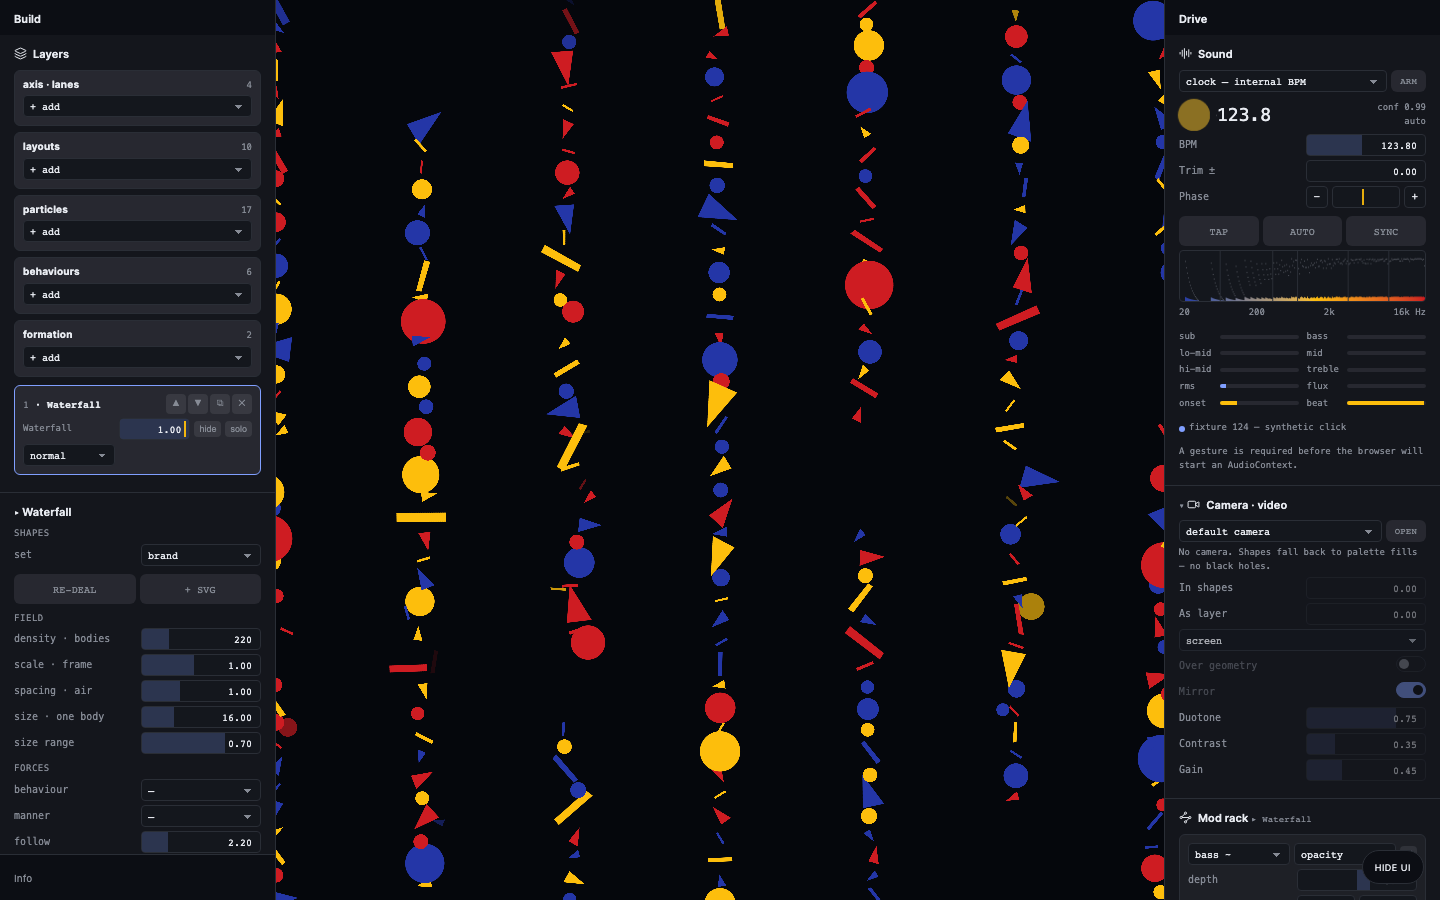
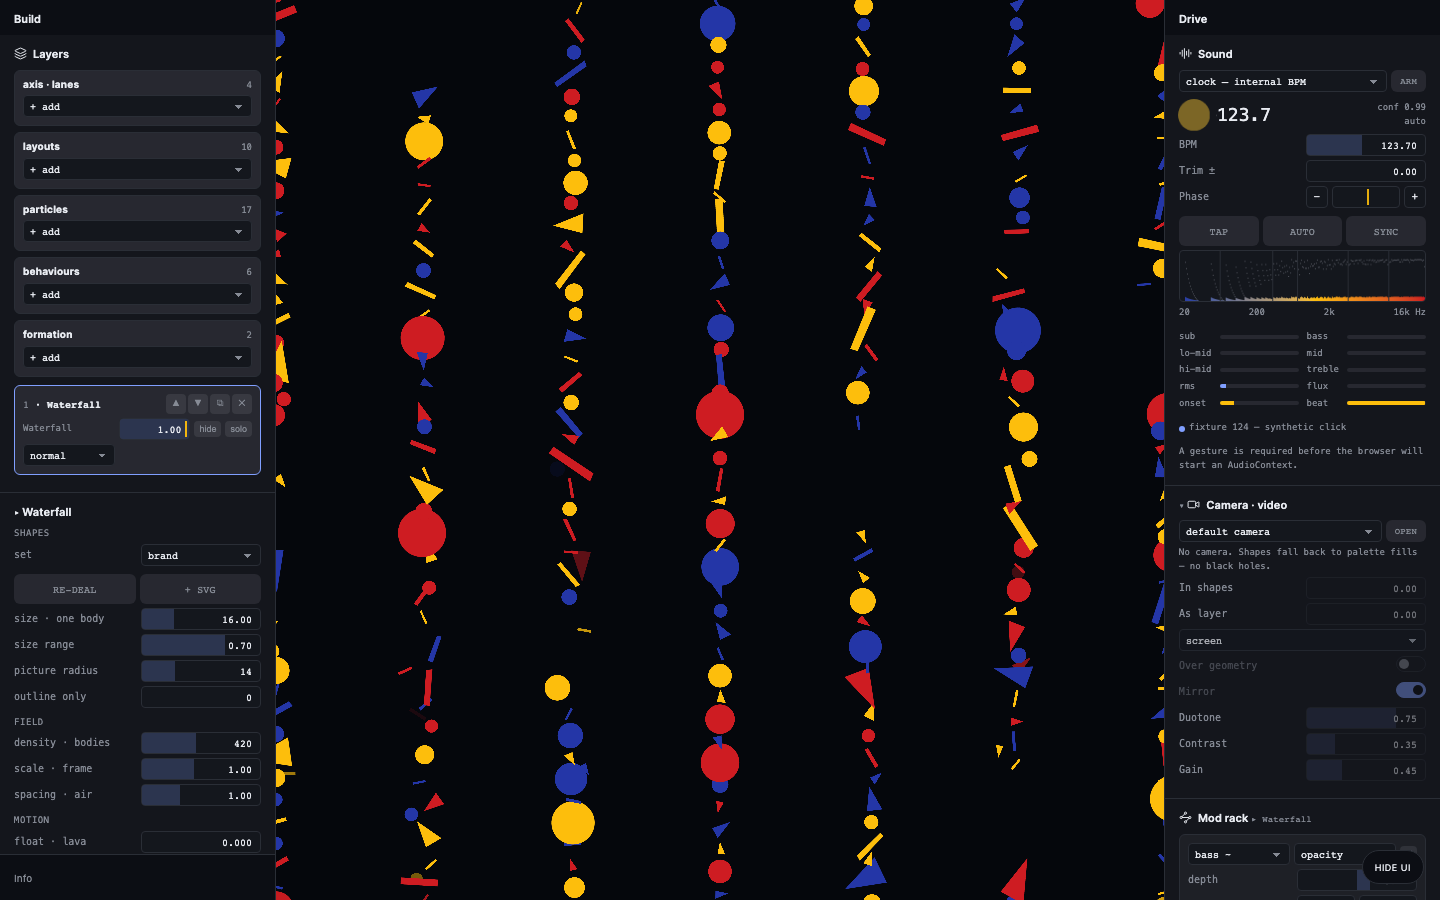
Стендбай Роба стал стартовым экраном, силы заговорили по-человечески

diff --git a/index.html b/index.html
@@ -4003,6 +4003,17 @@ const BLENDS=[['source-over','normal'],['multiply','multiply'],['screen','screen
    dial a triangle and a circle separately: «просто добавляется в каждую карточку базовый
    пресет нашего бренда, 3 добавленных svg, вот и всё». A set is one decision; the
    randomiser re-deals which body wears which of them. */
+/* what each force is FOR, in the words of the thing you are trying to make happen.
+   Order is the order you reach for them: drift first (the standby), then how they treat
+   each other, then how they organise, then the two that only some scenes want. */
+const MOTION_ROWS=[
+  {key:'phys.swirl',   label:'float · lava'},
+  {key:'phys.collide', label:'avoid each other'},
+  {key:'phys.attract', label:'gather to centre'},
+  {key:'phys.follow',  label:'hold formation'},
+  {key:'phys.flock',   label:'move together'},
+  {key:'phys.gravity', label:'fall'}
+];
 const SHAPE_SETS={
   brand:   { tri:1, wedge:1, circle:1, asset:1 },
   circles: { tri:0, wedge:0, circle:1, asset:0 },
@@ -4059,31 +4070,32 @@ function renderFocus(){
     seg.append(rr,ad); host.appendChild(seg); }
 
   const all=paramsOf(L), byKey=k=>all.find(x=>x.key===k);
+  rows(['size','varSize','radius','stroke'].map(byKey).filter(Boolean));
+
   cap('field');
   rows([{key:'count',label:'density · bodies',min:20,max:900,step:1,
          get:()=>L.count,set:v=>{ L.count=Math.round(v); rebuildLayer(L); }}]
-       .concat(['scale','spacing','size','varSize'].map(byKey).filter(Boolean)));
+       .concat(['scale','spacing'].map(byKey).filter(Boolean)));
 
-  cap('forces');
-  /* a whole force set in one gesture, for THIS layer — quantised like every other
-     performance action, so it lands on the bar rather than mid-phrase */
-  for(const [lbl,table,fn] of [['behaviour',BEHAVIOURS,applyBehaviour],
-                               ['manner',mannerTable(),applyManner]]){
-    const row=document.createElement('div'); row.className='row';
-    const lb=document.createElement('label'); lb.textContent=lbl; row.appendChild(lb);
-    const sel=mkSel([['','—']].concat(Object.keys(table).map(k=>[k,k])),'',v=>{
-      if(v) fire(()=>{ fn(v); renderFocus(); }, v); });
-    sel.setAttribute('aria-label',lbl+' preset'); row.appendChild(sel); host.appendChild(row);
-  }
-  rows(PHYS_PARAMS.map(d=>byKey(d.key)).filter(Boolean));
+  /* ── MOTION, named for what it does ─────────────────────────────────────────
+     This was FORCES: two dropdowns that overwrote the eight sliders under them, and the
+     eight sliders themselves named after the engine — follow · damping · collide · body
+     radius · swirl · attract · gravity · flock. Rob, 2026-07-19: «два drop down меню,
+     которые вообще не работают, это противоречит всей карточке. Нам надо больше настроек
+     конкретных, чтобы они авоидили друг друга, либо как-то выстраивались красиво, либо
+     больше плавали — типа лава-лампы».
+     The dropdowns are gone: a preset that silently rewrites every slider next to it is a
+     contradiction, not a shortcut. What is left is six controls named after the behaviour
+     you are asking for, not the term the integrator holds it under. Damping, body radius
+     and 3D interaction stay in the model (scenes carry them, the rack can drive them) —
+     they are calibration, not performance, and they were four more rows of noise. */
+  cap('motion');
+  rows(MOTION_ROWS.map(m=>{ const p=byKey(m.key); return p&&{...p,label:m.label}; }).filter(Boolean));
 
-  if(P.params.length){ cap('drawing');
+  if(P.params.length){ cap('pattern');
     rows(P.params.filter(d=>!P.keys||P.keys.includes(d.key))
       .map(x=>({...x, descKey:L.prog+'.'+x.key,
         get:()=>L.params[x.key], set:v=>L.params[x.key]=v}))); }
-  /* the rest of the look — the texture-baked half — stays reachable but out of the way */
-  cap('material');
-  rows(['radius','stroke','tint','face','varTilt'].map(byKey).filter(Boolean));
 
   const exId=PROG_EXTRAS[L.prog];
   if(exId){ const ex=document.getElementById(exId); if(ex) host.appendChild(ex); }
@@ -4481,13 +4493,34 @@ function frame(){
    ══════════════════════════════════════════════════════════════════════════ */
 readColours();
 buildRamp(); buildStops(); rebuildPool(); rebuildTextures();
-/* One layer at boot — two at full weight average into a band. And the axis engine
-   defaults to a SINGLE lane at 0°, which is literally a horizontal line: correct
-   behaviour, wrong first impression. Open on a field, not a stripe. */
-(function(){ const L=addLayer('flow');
-  Object.assign(L.params,{axes:6, angle:14, gap:0.46, speed:0.62,
-                          bend:0.22, bendFreq:2, scaleGrad:0.2, tilt3d:0.12});
-  L.count=620; rebuildLayer(L); })();
+/* ── the standby ────────────────────────────────────────────────────────────────
+   Rob tuned this live and sent it back as two exported scenes (`bryk-scene (1).json`,
+   2026-07-19): «это те настройки, которые должны по умолчанию всегда быть в самом
+   начале — фигуры плавают спокойно и ждут музыки; когда музыка играет, они начинают
+   танцевать. Важно чтобы это было сразу, когда мы открываем аппку».
+   So the app does not open on a demo of the axis engine any more. It opens on the brand
+   standby: one Pulse burst, flat camera, soft forces — drift, mutual avoidance, a hint of
+   pull — and a mod matrix that is silent at rest and comes alive on the first beat. The
+   values below are his, carried over verbatim from the export rather than re-derived. */
+(function(){ const L=addLayer('pat-burst');
+  L.count=631; L.opacity=1; L.blend='source-over';
+  Object.assign(L.look,{ size:16, scale:1, spacing:1, varSize:0.7,
+                         radius:14, stroke:0, face:0, varTilt:1, tint:0.55 });
+  Object.assign(L.phys,{ on:1, dim3:0, follow:2.2, collide:0.5, radius:0.13,
+                         swirl:0.1, gravity:0, attract:0.09, flock:0, damp:0.93 });
+  Object.assign(L.params,{ spread:1.85, dance:0.72, amplitude:1, frequency:1, twist:1, lanes:7 });
+  /* the matrix he tuned: nothing moves in silence, everything answers the band it is on.
+     `size` on the fast bass envelope is the pulse; `dance` on flux is the build-up. */
+  L.matrix=[
+    { feat:'env.bassFast', path:'size',         mode:'bi', depth:0.30, curve:'exp'  },
+    { feat:'env.midSlow',  path:'phys.collide', mode:'up', depth:0.10, curve:'ease' },
+    { feat:'env.highSlow', path:'phys.follow',  mode:'up', depth:0.19, curve:'lin'  },
+    { feat:'band.bass',    path:'amplitude',    mode:'up', depth:0.15, curve:'lin'  },
+    { feat:'env.midFast',  path:'satDrift',     mode:'up', depth:0.54, curve:'lin'  },
+    { feat:'env.bassSlow', path:'twist',        mode:'up', depth:1.08, curve:'lin'  },
+    { feat:'flux',         path:'dance',        mode:'bi', depth:0.55, curve:'exp'  }
+  ];
+  rebuildLayer(L); renderLayers(); buildMatrix(); })();
 resize(); refreshDevices(); setArmState('idle');
 SCRUBS.bpm.set(120);
 selectInput(FIXON?'fix124':'clock').then(()=>{ inSel.value=curInput; syncTransport(); });